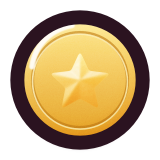
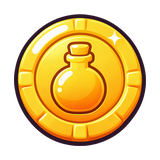
v1.0.5: the new Chapter 1 (60 levels)

diff --git a/index.html b/index.html
@@ -11,7 +11,7 @@
 <meta property="og:site_name" content="Potion Pop">
 <meta property="og:url" content="https://opiumheimer.github.io/">
 <meta property="og:title" content="Potion Pop: sort potions, fix the shop">
-<meta property="og:description" content="A cute sorting puzzle with a 30-level Story, an Endless high-score mode and a new Daily board every day. Free on Android.">
+<meta property="og:description" content="A cute sorting puzzle with a 60-level Story, an Endless high-score mode and a new Daily board every day. Free on Android.">
 <meta property="og:image" content="https://opiumheimer.github.io/assets/img/og.jpg">
 <meta property="og:image:type" content="image/jpeg">
 <meta property="og:image:width" content="1200">
@@ -23,7 +23,7 @@
 <link rel="preload" href="assets/Fredoka.ttf" as="font" type="font/ttf" crossorigin>
 <link rel="stylesheet" href="assets/css/site.css?v=187fda86">
 <script src="assets/js/site.js?v=187fda86" defer></script>
-<script type="application/ld+json">{"@context": "https://schema.org", "@type": ["VideoGame", "MobileApplication"], "name": "Potion Pop", "url": "https://opiumheimer.github.io/", "description": "A cute potion-sorting puzzle with a 30-level Story Mode, an Endless high-score mode and a Daily Challenge.", "image": "https://opiumheimer.github.io/assets/img/og.jpg", "applicationCategory": "GameApplication", "gamePlatform": "Android", "operatingSystem": "Android 7.0 or later", "genre": "Puzzle", "softwareVersion": "1.0.4", "downloadUrl": "https://github.com/opiumheimer/opiumheimer.github.io/releases/download/v1.0.4/PotionPop-v1.0.4.apk", "fileSize": "109 MB", "author": {"@type": "Person", "name": "ovdruss (Russel)"}, "offers": {"@type": "Offer", "price": "0", "priceCurrency": "USD"}}</script>
+<script type="application/ld+json">{"@context": "https://schema.org", "@type": ["VideoGame", "MobileApplication"], "name": "Potion Pop", "url": "https://opiumheimer.github.io/", "description": "A cute potion-sorting puzzle with a 60-level Story Mode, an Endless high-score mode and a Daily Challenge.", "image": "https://opiumheimer.github.io/assets/img/og.jpg", "applicationCategory": "GameApplication", "gamePlatform": "Android", "operatingSystem": "Android 7.0 or later", "genre": "Puzzle", "softwareVersion": "1.0.5", "downloadUrl": "https://github.com/opiumheimer/opiumheimer.github.io/releases/download/v1.0.5/PotionPop-v1.0.5.apk", "fileSize": "108 MB", "author": {"@type": "Person", "name": "ovdruss (Russel)"}, "offers": {"@type": "Offer", "price": "0", "priceCurrency": "USD"}}</script>
 </head>
 <body>
 <a class="skip" href="#main">Skip to content</a>
@@ -38,7 +38,7 @@
       <li><a href="#new">What's new</a></li>
     </ul>
   </nav>
-  <a class="btn btn-sm" href="https://github.com/opiumheimer/opiumheimer.github.io/releases/download/v1.0.4/PotionPop-v1.0.4.apk" data-apk>
+  <a class="btn btn-sm" href="https://github.com/opiumheimer/opiumheimer.github.io/releases/download/v1.0.5/PotionPop-v1.0.5.apk" data-apk>
     <svg aria-hidden="true" viewBox="0 0 24 24"><path d="M12 3v11m0 0-4.5-4.5M12 14l4.5-4.5M4.5 17.5v2h15v-2"/></svg>Download
   </a>
 </header>
@@ -60,16 +60,16 @@
   <div class="hero-copy">
     <h1 class="logo"><span class="logo-potion">Potion</span><span class="logo-pop">Pop!</span></h1>
     <p class="hero-line">Sort potions. Fix the shop.<br>Find out what happened.</p>
-    <p class="hero-sub">A cute sorting puzzle with a 30-level Story, an Endless high-score mode and a new Daily board every day.</p>
+    <p class="hero-sub">A cute sorting puzzle with a 60-level Story, an Endless high-score mode and a new Daily board every day.</p>
     <div class="cta-row">
-      <a class="btn btn-big" href="https://github.com/opiumheimer/opiumheimer.github.io/releases/download/v1.0.4/PotionPop-v1.0.4.apk" data-apk>
+      <a class="btn btn-big" href="https://github.com/opiumheimer/opiumheimer.github.io/releases/download/v1.0.5/PotionPop-v1.0.5.apk" data-apk>
         <svg aria-hidden="true" viewBox="0 0 24 24"><path d="M12 3v11m0 0-4.5-4.5M12 14l4.5-4.5M4.5 17.5v2h15v-2"/></svg>Download for Android
       </a>
       <a class="link-play" href="#trailer">
         <svg aria-hidden="true" viewBox="0 0 24 24"><path d="M7.5 5v14l11-7z"/></svg>Watch the trailer
       </a>
     </div>
-    <p class="meta"><span data-version>v1.0.4</span> · Free · <span data-size>109 MB</span> · Android 7+</p>
+    <p class="meta"><span data-version>v1.0.5</span> · Free · <span data-size>108 MB</span> · Android 7+</p>
     <p class="meta-note">A direct APK: no Play Store needed.</p>
   </div>
 
@@ -266,14 +266,15 @@
 <section class="news" id="new" aria-labelledby="new-h">
   <div class="wrap news-grid">
     <article class="label">
-      <h2 id="new-h">What's new in <span data-version>v1.0.4</span></h2>
-      <p class="date" data-date>Released 29 September 2026</p>
+      <h2 id="new-h">What's new in <span data-version>v1.0.5</span></h2>
+      <p class="date" data-date>Released 11 October 2026</p>
       <ul class="notes" data-notes>
-        <li>Story Mode: Chapter 1 (30 levels, the shop to repair, the map, Mika&#x27;s story)</li>
-        <li>The Daily Challenge: the same board for everyone, every day</li>
-        <li>Leaderboards: this week&#x27;s best Endless runs and today&#x27;s Daily (the crown on the title)</li>
-        <li>Your save lives in the cloud; Sign in with Google (Settings) to keep it when you change phones</li>
-        <li>The game tells you when a new version is out</li>
+        <li>A brand-new story, with clues to pin on the case board</li>
+        <li>Chapter 1 now has 60 levels, with a mini-boss at level 30 and the Hooded Thief at level 60</li>
+        <li>Deliveries take orders, with a waiting tray; in Endless, an empty bottle gets thirsty, and a clear on a nearly full shelf pays x1.5</li>
+        <li>Win streaks give bonus moves, and Mika&#x27;s tasks show what to do next</li>
+        <li>A new title screen and all-new music and sounds</li>
+        <li>Smoother on cheaper phones</li>
       </ul>
       <a class="text-link" href="https://github.com/opiumheimer/opiumheimer.github.io/releases">All versions on GitHub</a>
     </article>
@@ -285,10 +286,10 @@
   <div class="wrap get-inner">
     <img class="get-cat" src="assets/ui/cat_sit.png" width="240" height="300" loading="lazy" alt="The shop's calico cat, sitting.">
     <h2 id="get-h">Ready to pop some potions?</h2>
-    <a class="btn btn-big" href="https://github.com/opiumheimer/opiumheimer.github.io/releases/download/v1.0.4/PotionPop-v1.0.4.apk" data-apk>
+    <a class="btn btn-big" href="https://github.com/opiumheimer/opiumheimer.github.io/releases/download/v1.0.5/PotionPop-v1.0.5.apk" data-apk>
       <svg aria-hidden="true" viewBox="0 0 24 24"><path d="M12 3v11m0 0-4.5-4.5M12 14l4.5-4.5M4.5 17.5v2h15v-2"/></svg>Download Potion Pop
     </a>
-    <p class="meta"><span data-version>v1.0.4</span> · Android 7+ · Free · <span data-size>109 MB</span></p>
+    <p class="meta"><span data-version>v1.0.5</span> · Android 7+ · Free · <span data-size>108 MB</span></p>
     <p class="meta-note">The only ads are the ones you choose to watch for a bonus.</p>
 
     <details class="install">
